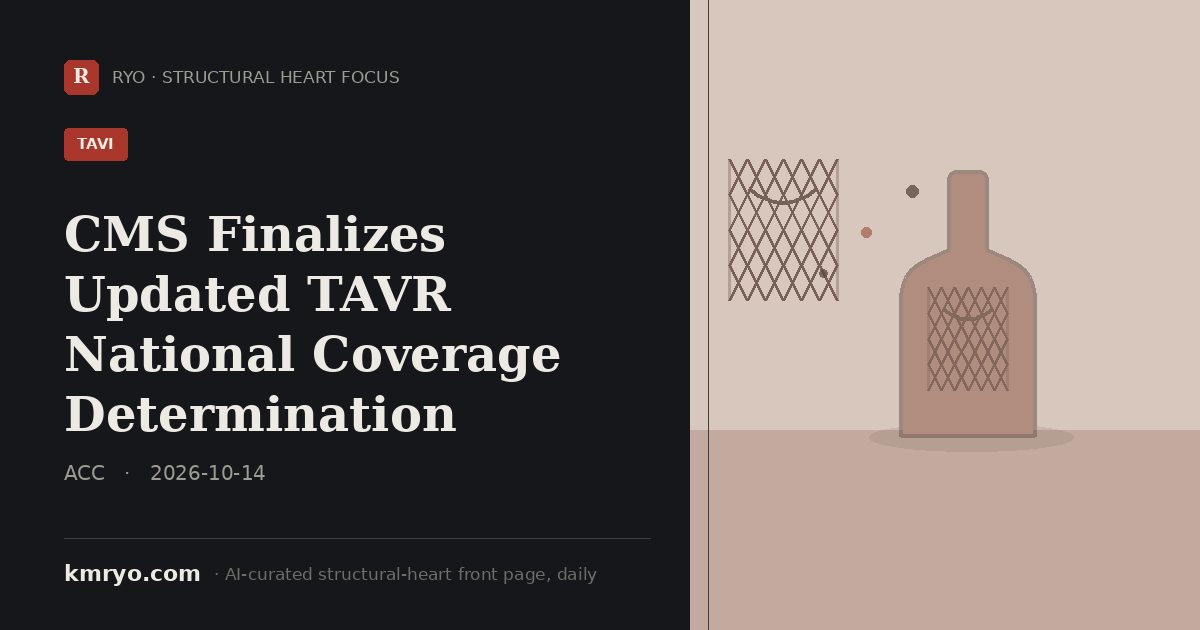
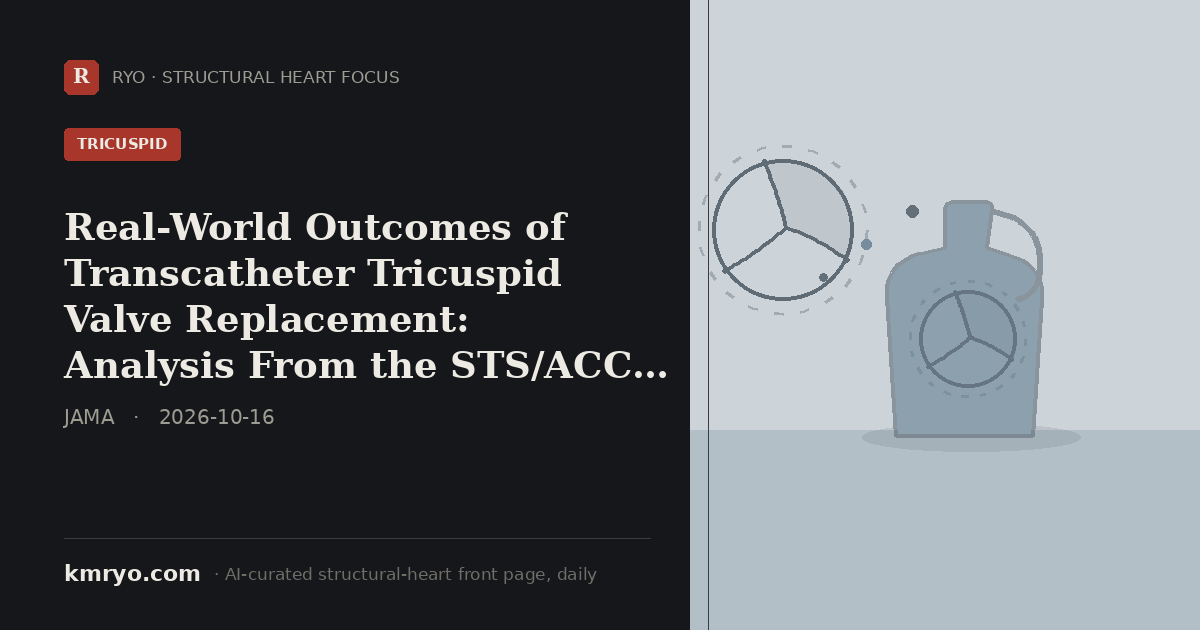
pulse: 2026-10-16 daily update
Claude-Session: https://claude.ai/code/session_01CAP2qqBCGak2tCTTtXKNic

diff --git a/index.html b/index.html
@@ -6,8 +6,8 @@
 <title>Structural Heart Focus — Daily | Dr. Mi Chen · 千觅量子 RYO</title>
 <meta name="description" content="Structural Heart Focus — the day's most important structural-heart reading (top journals, major meetings and the field's conversation), curated daily by an AI agent from inside the Zurich hybrid room. By Dr. Mi Chen · 千觅量子 RYO.">
 <!-- Social share card. Regenerated daily by the pulse agent (pulse/make_share_card.py); og:title/description updated to the day's top story so LinkedIn/WeChat/X show today's headline, not a static portrait. -->
-<meta property="og:title" content="CMS Finalizes Updated TAVR National Coverage Determination">
-<meta property="og:description" content="CMS's finalized TAVR national coverage decision drops the coverage-with-evidence-development requirement for symptomatic severe aortic stenosis, and removes the dual-operator mandate, hospital volume thresholds, and mandatory registry participation.">
+<meta property="og:title" content="Real-World Outcomes of Transcatheter Tricuspid Valve Replacement: Analysis From the STS/ACC TVT Registry">
+<meta property="og:description" content="A JAMA-published STS/ACC TVT Registry analysis of 1,034 EVOQUE transcatheter tricuspid valve replacement patients found over 98% procedural success and lower bleeding and pacemaker rates than the pivotal TRISCEND II trial.">
 <meta property="og:image" content="https://www.kmryo.com/pulse/img/share/card.png">
 <meta property="og:image:width" content="1200">
 <meta property="og:image:height" content="630">
@@ -16,8 +16,8 @@
 <meta property="og:type" content="website">
 <meta property="og:site_name" content="kmryo.com · Structural Heart Focus">
 <meta name="twitter:card" content="summary_large_image">
-<meta name="twitter:title" content="CMS Finalizes Updated TAVR National Coverage Determination">
-<meta name="twitter:description" content="CMS's finalized TAVR national coverage decision drops the coverage-with-evidence-development requirement for symptomatic severe aortic stenosis, and removes the dual-operator mandate, hospital volume thresholds, and mandatory registry participation.">
+<meta name="twitter:title" content="Real-World Outcomes of Transcatheter Tricuspid Valve Replacement: Analysis From the STS/ACC TVT Registry">
+<meta name="twitter:description" content="A JAMA-published STS/ACC TVT Registry analysis of 1,034 EVOQUE transcatheter tricuspid valve replacement patients found over 98% procedural success and lower bleeding and pacemaker rates than the pivotal TRISCEND II trial.">
 <meta name="twitter:image" content="https://www.kmryo.com/pulse/img/share/card.png">
[1 lines of base64/hex data omitted]
 <link rel="preconnect" href="https://fonts.googleapis.com">
